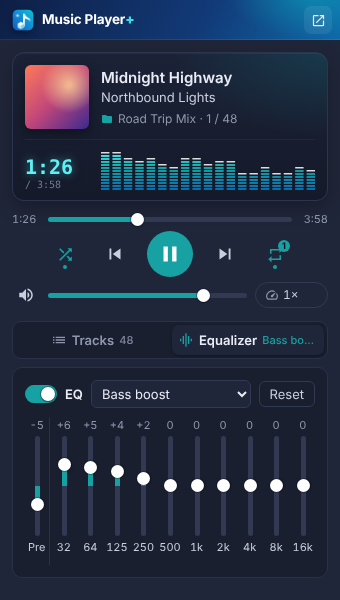
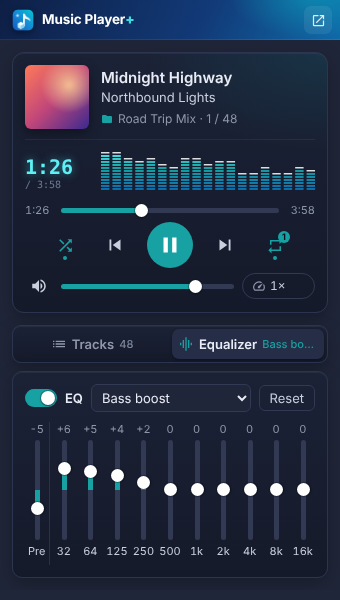
Give the whole player one "deck" surface
The now-playing box had its own gradient, edge and shadow while the rest
were flat cards, so it looked pasted on. The player (box, seek, transport,
volume) is now one panel with that surface, and the tabs, cards and the
in-page visualizer strip and tab panel use the same shared theme tokens.

Claude-Session: https://claude.ai/code/session_01P4eB22f8esc7uUQHMpfFs7

diff --git a/lib/in-page-controls.ts b/lib/in-page-controls.ts
@@ -22,16 +22,17 @@ const STYLE = `
   .bar .grow { flex: 1; }
   .viz-strip {
     margin: 12px 12px 0; padding: 8px 10px; border-radius: var(--ice-radius);
-    background: linear-gradient(180deg, #1b2236, #151a2a); border: 1px solid #2c3550;
+    background: var(--ice-deck-glow), var(--ice-deck-bg); border: 1px solid var(--ice-deck-border);
+    box-shadow: var(--ice-deck-shadow);
   }
   .viz-strip canvas { display: block; width: 100%; height: 40px; cursor: pointer; }
   .viz-strip.off canvas { height: 18px; }
   .ip-panel {
     margin: 12px 12px 4px; border-radius: var(--ice-radius);
-    background: var(--ice-panel); border: 1px solid var(--ice-panel-border);
+    background: var(--ice-deck-bg); border: 1px solid var(--ice-deck-border); box-shadow: var(--ice-deck-shadow);
   }
   .tabs { display: flex; gap: 2px; padding: 6px 6px 0; }
-  .ip-panel.open .tabs { border-bottom: 1px solid var(--ice-panel-border); }
+  .ip-panel.open .tabs { border-bottom: 1px solid var(--ice-deck-border); }
   .ip-panel:not(.open) .tabs { padding-bottom: 6px; }
   .tab {
     display: flex; align-items: center; gap: 6px; height: 34px; padding: 0 14px;
@@ -43,13 +44,13 @@ const STYLE = `
   .tab small { font-weight: 500; font-size: 11px; color: var(--ice-dim); }
   .tab small.state { color: var(--ice-accent); }
   .tab[aria-selected='true'] {
-    color: var(--ice-text); background: var(--ice-panel);
-    border-color: var(--ice-panel-border); border-bottom-color: var(--ice-panel);
+    color: var(--ice-text); background: #1a2134;
+    border-color: var(--ice-deck-border); border-bottom-color: #1a2134;
     border-radius: 7px 7px 0 0; margin-bottom: -1px;
   }
   .tab[aria-selected='true'] svg { fill: var(--ice-accent); }
   /* Panels lose their own card frame: the tabbed box is the frame. */
-  .ip-panel .card { margin: 0; border: 0; background: transparent; }
+  .ip-panel .card { margin: 0; border: 0; background: transparent; box-shadow: none; }
   .eq-panel .switch-text { font-size: 0; }
   .eq-panel .switch-text::after { content: attr(data-short); font-size: 13px; }
   .eq-status[data-status='active'] { display: inline-flex; align-items: center; gap: 6px; }

diff --git a/entrypoints/popup/style.css b/entrypoints/popup/style.css
@@ -59,15 +59,13 @@ body.full #app {
   line-height: 1.4;
 }
 
-/* ---- Now playing box ---- */
-.np-box {
-  padding: 12px 12px 10px;
+/* ---- The player "deck": now playing, seek, transport and volume in one panel ---- */
+.player {
+  padding: 12px;
   border-radius: 12px;
-  background:
-    radial-gradient(220px 120px at 100% 0%, rgba(8, 200, 209, 0.14), transparent 70%),
-    linear-gradient(180deg, #1b2236, #151a2a);
-  border: 1px solid #2c3550;
-  box-shadow: inset 0 1px 0 rgba(255, 255, 255, 0.05), 0 6px 18px rgba(0, 0, 0, 0.25);
+  background: var(--ice-deck-glow), var(--ice-deck-bg);
+  border: 1px solid var(--ice-deck-border);
+  box-shadow: var(--ice-deck-shadow);
 }
 .now {
   display: flex;
@@ -138,7 +136,7 @@ body.full #app {
   gap: 12px;
   margin-top: 10px;
   padding-top: 10px;
-  border-top: 1px solid rgba(255, 255, 255, 0.05);
+  border-top: 1px solid rgba(255, 255, 255, 0.06);
 }
 /* A small glowing clock, like an old player's display. */
 .lcd {
@@ -175,7 +173,7 @@ body.full #app {
   display: flex;
   align-items: center;
   gap: 8px;
-  margin-top: 10px;
+  margin-top: 12px;
   font-size: 11px;
   color: var(--ice-muted);
   font-variant-numeric: tabular-nums;
@@ -282,8 +280,9 @@ body.full #app {
   margin-top: 12px;
   padding: 3px;
   border-radius: 9px;
-  background: var(--ice-panel);
-  border: 1px solid var(--ice-panel-border);
+  background: var(--ice-deck-bg);
+  border: 1px solid var(--ice-deck-border);
+  box-shadow: var(--ice-deck-shadow);
 }
 .seg-btn {
   flex: 1;
@@ -323,7 +322,7 @@ body.full #app {
   color: var(--ice-accent);
 }
 .seg-btn[aria-selected='true'] {
-  background: var(--ice-bg);
+  background: #262e47;
   color: var(--ice-text);
   box-shadow: 0 1px 3px rgba(0, 0, 0, 0.35);
 }
@@ -526,7 +525,7 @@ body.detached .eq-panel .slot .range {
     align-items: center;
     column-gap: 8px;
   }
-  body.detached .np-box {
+  body.detached .player {
     padding: 0;
     border: 0;
     background: none;

diff --git a/lib/ui/theme.css b/lib/ui/theme.css
@@ -24,6 +24,12 @@
   --ice-radius-sm: 6px;
   --ice-knob: #ffffff;
   --ice-knob-shadow: 0 1px 2px rgba(0, 0, 0, 0.35), 0 0 0 1px rgba(13, 18, 32, 0.25);
+  /* The "deck" surface every panel shares: a soft top-to-bottom shade,
+     a slightly brighter edge and a faint highlight along the top. */
+  --ice-deck-bg: linear-gradient(180deg, #1b2236, #151a2a);
+  --ice-deck-glow: radial-gradient(260px 140px at 100% 0%, rgba(8, 200, 209, 0.1), transparent 70%);
+  --ice-deck-border: #2c3550;
+  --ice-deck-shadow: inset 0 1px 0 rgba(255, 255, 255, 0.05), 0 6px 18px rgba(0, 0, 0, 0.25);
   color-scheme: dark;
 }
 
@@ -35,8 +41,9 @@
 .card {
   padding: 12px;
   border-radius: var(--ice-radius);
-  background: var(--ice-panel);
-  border: 1px solid var(--ice-panel-border);
+  background: var(--ice-deck-bg);
+  border: 1px solid var(--ice-deck-border);
+  box-shadow: var(--ice-deck-shadow);
 }
 
 /* Round icon buttons (shuffle, previous, next, repeat...). */

diff --git a/CHANGELOG.md b/CHANGELOG.md
@@ -19,6 +19,7 @@ changes under **Unreleased** as you go and rename it when you tag.
 - **New popup layout**: a slimmer header; cover, title and folder in one box; times beside the seek bar; playback speed as a small chip next to the volume. The track list and the equalizer are now two tabs (remembered) sharing the space below, so the popup keeps the same height and the list no longer gets pushed out when the equalizer is open.
 - **Inside Icedrive**: shuffle, previous, next and repeat line up with Icedrive's player controls, with the mini player button at the end of the row. The equalizer and the track list are labelled tabs (click the open one to close it), and the list uses two columns when there is room.
 - The playing track shows small level bars instead of its number.
+- **One "deck" look**: the player (now playing, seek, buttons, volume) is one panel, and the tabs, track list, equalizer and visualizer strip share its surface, so nothing stands out on its own.
 
 ## [0.4.0] - 2026-11-09
 
